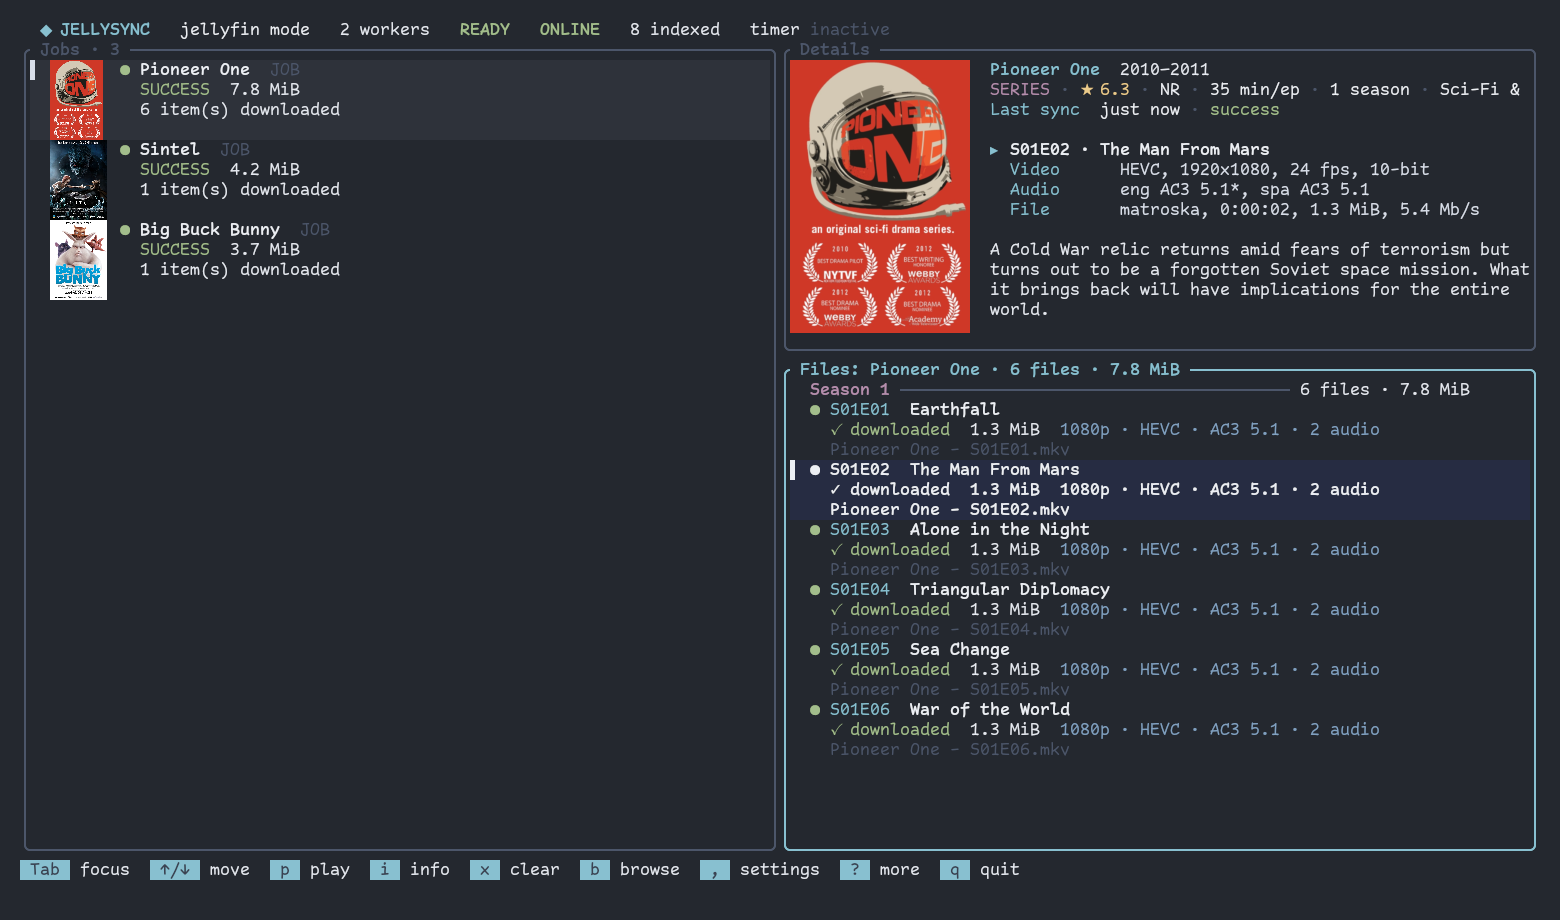
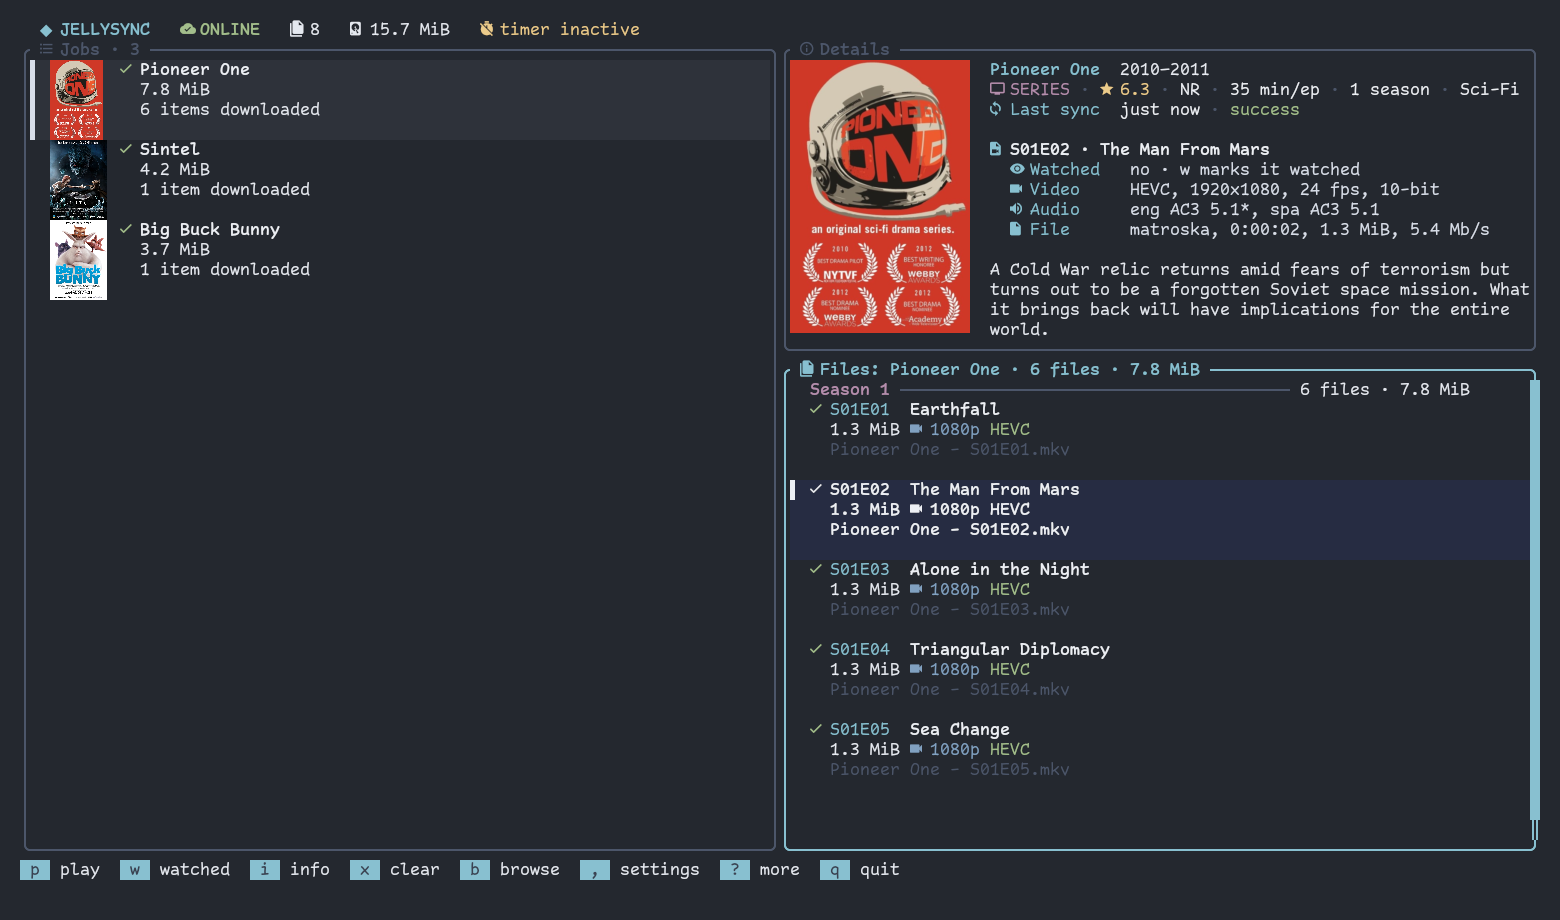
chore: release 1.2.0
Retake the screenshot (in ComicCode Nerd Font) and default the screenshot
font to JetBrainsMono Nerd Font Mono: the proportional Nerd Font variant
makes kitty space every cell out.

diff --git a/README.md b/README.md
@@ -227,7 +227,7 @@ clippy, and `just check` runs everything.
 `just screenshot` retakes `docs/screenshot.png` on the build host (it needs
 Docker there): it starts a throwaway Jellyfin container holding only Creative
 Commons media, syncs it with a throwaway config and captures the TUI in a real
-kitty under a virtual X server. The default font is JetBrainsMono Nerd Font
+kitty under a virtual X server. The default font is JetBrainsMono Nerd Font Mono
 (the TUI draws its icons with Nerd Font glyphs). To use a
 font that can't live in this repository, pass its family and a local font
 directory, e.g. `just screenshot rofl-13 "ComicCode Nerd Font" ~/fonts/comic-code`.
